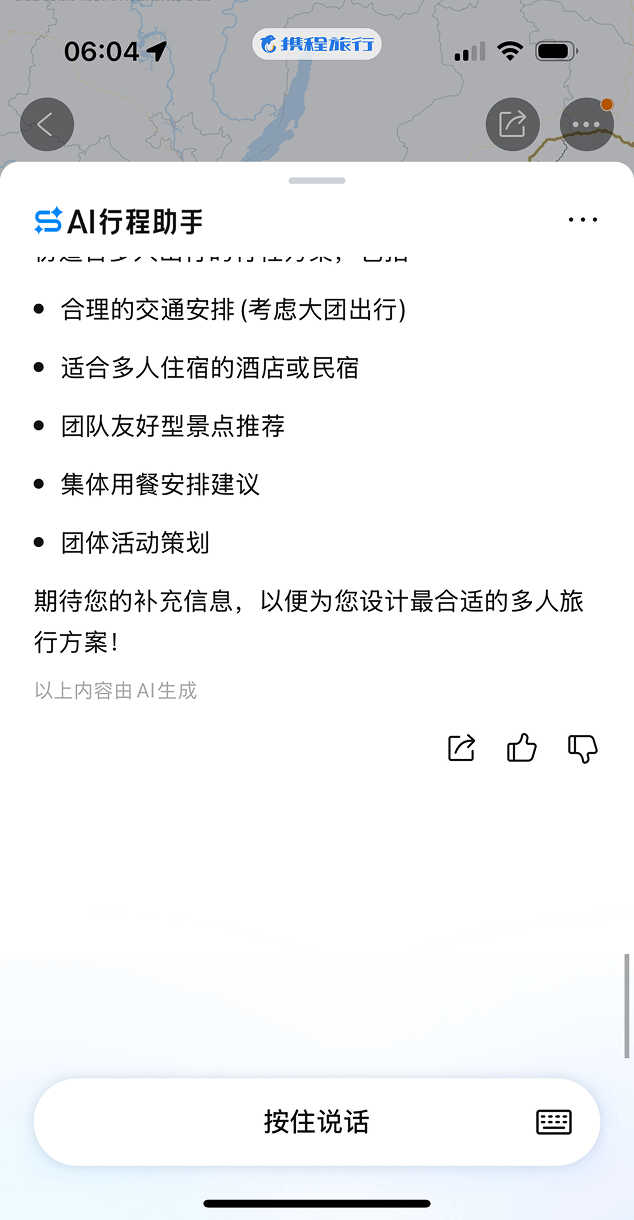
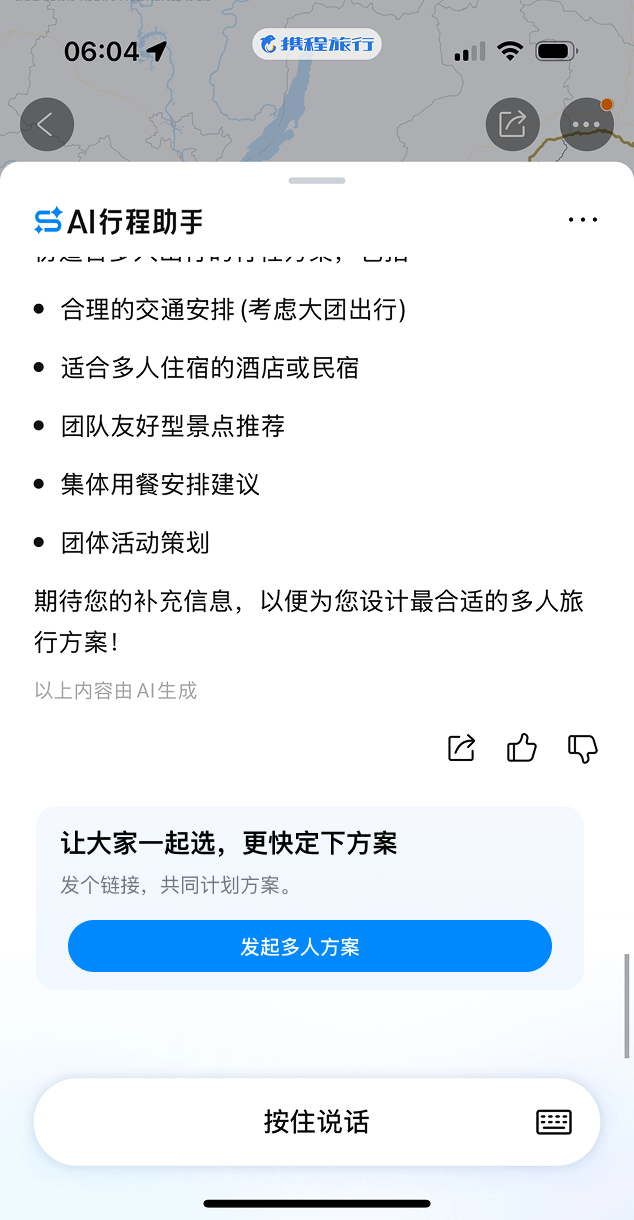
Update mobile homepage and project imagery

Changed region(s): [[0.0899, 0.6541, 0.8691, 0.8098]]

diff --git a/scripts/stage.js b/scripts/stage.js
@@ -9,7 +9,7 @@ function render(){
  const a=Math.max(0,Math.min(count-1,Math.floor(position))),b=Math.min(count-1,a+1),mix=Math.max(0,Math.min(1,position-a)),c1=rgb(data.colors[a%data.colors.length]),c2=rgb(data.colors[b%data.colors.length]);
  document.body.style.backgroundColor=`rgb(${c1.map((v,i)=>Math.round(v+(c2[i]-v)*mix)).join(',')})`;
  const mobile=innerWidth<=760,step=innerHeight*(mobile?.57:.72),speed=moving?Math.sin(Math.PI*Math.min(1,(performance.now()-start)/880)):0;
- planes.forEach((el,i)=>{const d=i-position;el.style.transform=`translate3d(${-d*(mobile?35:75)}px,${d*step}px,${-Math.abs(d)*85}px) rotateZ(${-3-speed*1.5}deg) rotateY(${-5+speed*2}deg) skewX(${-16-speed*3}deg)`;el.style.opacity=String(Math.max(0,1-Math.abs(d)*.55));el.style.pointerEvents=i===target?'auto':'none';el.tabIndex=i===target?0:-1;el.setAttribute('aria-hidden',String(i!==target));});
+ planes.forEach((el,i)=>{const d=i-position;el.style.transform=mobile?`translate3d(${d*91}vw,0,0)`:`translate3d(${-d*(mobile?35:75)}px,${d*step}px,${-Math.abs(d)*85}px) rotateZ(${-3-speed*1.5}deg) rotateY(${-5+speed*2}deg) skewX(${-16-speed*3}deg)`;el.style.opacity=String(Math.max(0,1-Math.abs(d)*.55));el.style.pointerEvents=i===target?'auto':'none';el.tabIndex=i===target?0:-1;el.setAttribute('aria-hidden',String(i!==target));});
  copies.forEach((el,i)=>{const d=i-position;el.style.opacity=String(Math.max(0,1-Math.abs(d)*2.5));el.style.transform=`translate3d(0,${d*(mobile?45:75)}px,0)`;});
 }
 function announce(){copies.forEach((el,i)=>{el.inert=i!==target;el.setAttribute('aria-hidden',String(i!==target))});dots.forEach((el,i)=>i===target?el.setAttribute('aria-current','true'):el.removeAttribute('aria-current'));document.querySelector('#announcement').textContent=`${target+1} / ${count}，${data.projects[target]}`;history.replaceState(null,'','#project='+(target+1));}
@@ -28,7 +28,7 @@ function settle(){
  frame=requestAnimationFrame(rebound);
 }
 addEventListener('wheel',e=>{
- if(expanded)return;
+ if(expanded||innerWidth<=760)return;
  if(e.ctrlKey||Math.abs(e.deltaX)>Math.abs(e.deltaY))return;
  e.preventDefault();const now=performance.now();
  if(now-lastWheel>180){wheelSum=0;gestureUsed=false}
@@ -48,7 +48,7 @@ addEventListener('wheel',e=>{
 addEventListener('keydown',e=>{if(expanded){if(e.key==='Escape'){e.preventDefault();leaveDetail();}return;}if(e.altKey||e.ctrlKey||e.metaKey||e.target.closest('input,textarea,select,[contenteditable=true]'))return;if(['ArrowDown','PageDown','ArrowUp','PageUp','Home','End'].includes(e.key)){e.preventDefault();if(moving)return;go(e.key==='Home'?0:e.key==='End'?count-1:target+(['ArrowDown','PageDown'].includes(e.key)?1:-1))}});
 dots.forEach((el,i)=>el.addEventListener('click',()=>go(i)));
 addEventListener('touchstart',e=>{if(e.touches.length===1)touch={x:e.touches[0].clientX,y:e.touches[0].clientY};else touch=null},{passive:true});
-addEventListener('touchend',e=>{if(!touch||moving||expanded)return;const dx=e.changedTouches[0].clientX-touch.x,dy=e.changedTouches[0].clientY-touch.y;touch=null;if(Math.abs(dy)>45&&Math.abs(dy)>Math.abs(dx))go(target+(dy<0?1:-1))},{passive:true});
+addEventListener('touchend',e=>{if(!touch||moving||expanded)return;const dx=e.changedTouches[0].clientX-touch.x,dy=e.changedTouches[0].clientY-touch.y;touch=null;if(innerWidth<=760){if(Math.abs(dx)>45&&Math.abs(dx)>Math.abs(dy)*1.3)go(target+(dx<0?1:-1))}else if(Math.abs(dy)>45&&Math.abs(dy)>Math.abs(dx))go(target+(dy<0?1:-1))},{passive:true});
 const homeControl=document.querySelector('#home-control'),homeLabel=homeControl.textContent;
 const pagination=document.querySelector('.pagination');
 const stage=document.querySelector('.stage'),details=[...document.querySelectorAll('[data-detail]')];

diff --git a/app/stage.css b/app/stage.css
@@ -367,3 +367,26 @@ body.detail-snap *{transition:none!important;animation:none!important}
 @media(max-width:760px){
  .chapter-section .action-heading--wide h2{font-size:clamp(14px,4.3vw,32px);letter-spacing:-.035em}
 }
+
+.mobile-description{display:none}
+@media(max-width:760px){
+ body:not(.project-expanded) header{position:absolute;padding:24px 6vw;font-size:12px}
+ body:not(.project-expanded) .stage{overflow-y:auto;overflow-x:hidden;touch-action:pan-y;overscroll-behavior-y:auto}
+ body:not(.project-expanded) .pagination{position:absolute;top:76px;left:0;right:0;transform:none;flex-direction:row;justify-content:center;gap:0}
+ body:not(.project-expanded) .pagination button{width:30px;height:32px}
+ body:not(.project-expanded) .pagination span{width:12px;height:5px}
+ body:not(.project-expanded) .pagination button[aria-current=true] span{width:18px;height:5px}
+ body:not(.project-expanded) .gallery{top:140px;height:55vw;bottom:auto;perspective:none}
+ body:not(.project-expanded) .plane{top:0;left:6vw;width:88vw;height:55vw;overflow:visible}
+ body:not(.project-expanded) .plane-inner{clip-path:none;border-radius:0}
+ body:not(.project-expanded) .plane img{object-fit:cover}
+ body:not(.project-expanded) .copy-area{position:relative;left:auto;top:auto;width:88%;height:auto;min-height:300px;margin:calc(140px + 55vw + 36px) auto 0;padding-bottom:64px}
+ body:not(.project-expanded) .project-copy{position:relative;inset:auto}
+ body:not(.project-expanded) .project-copy[aria-hidden=true]{display:none}
+ body:not(.project-expanded) .project-copy h1{font-family:Georgia,'Songti SC',serif;font-size:38px;margin:0 0 14px;line-height:1.2}
+ body:not(.project-expanded) .project-copy .project-type{font-size:12px;line-height:1.5;margin:0 0 18px;letter-spacing:.08em}
+ body:not(.project-expanded) .project-copy p{font-size:17px;line-height:1.75;max-width:none;margin:0}
+ body:not(.project-expanded) .project-copy:has(.mobile-description) .project-description{display:none}
+ body:not(.project-expanded) .mobile-description{display:block}
+ body:not(.project-expanded) .project-copy>a{margin-top:26px;font-size:13px;gap:16px}
+}
